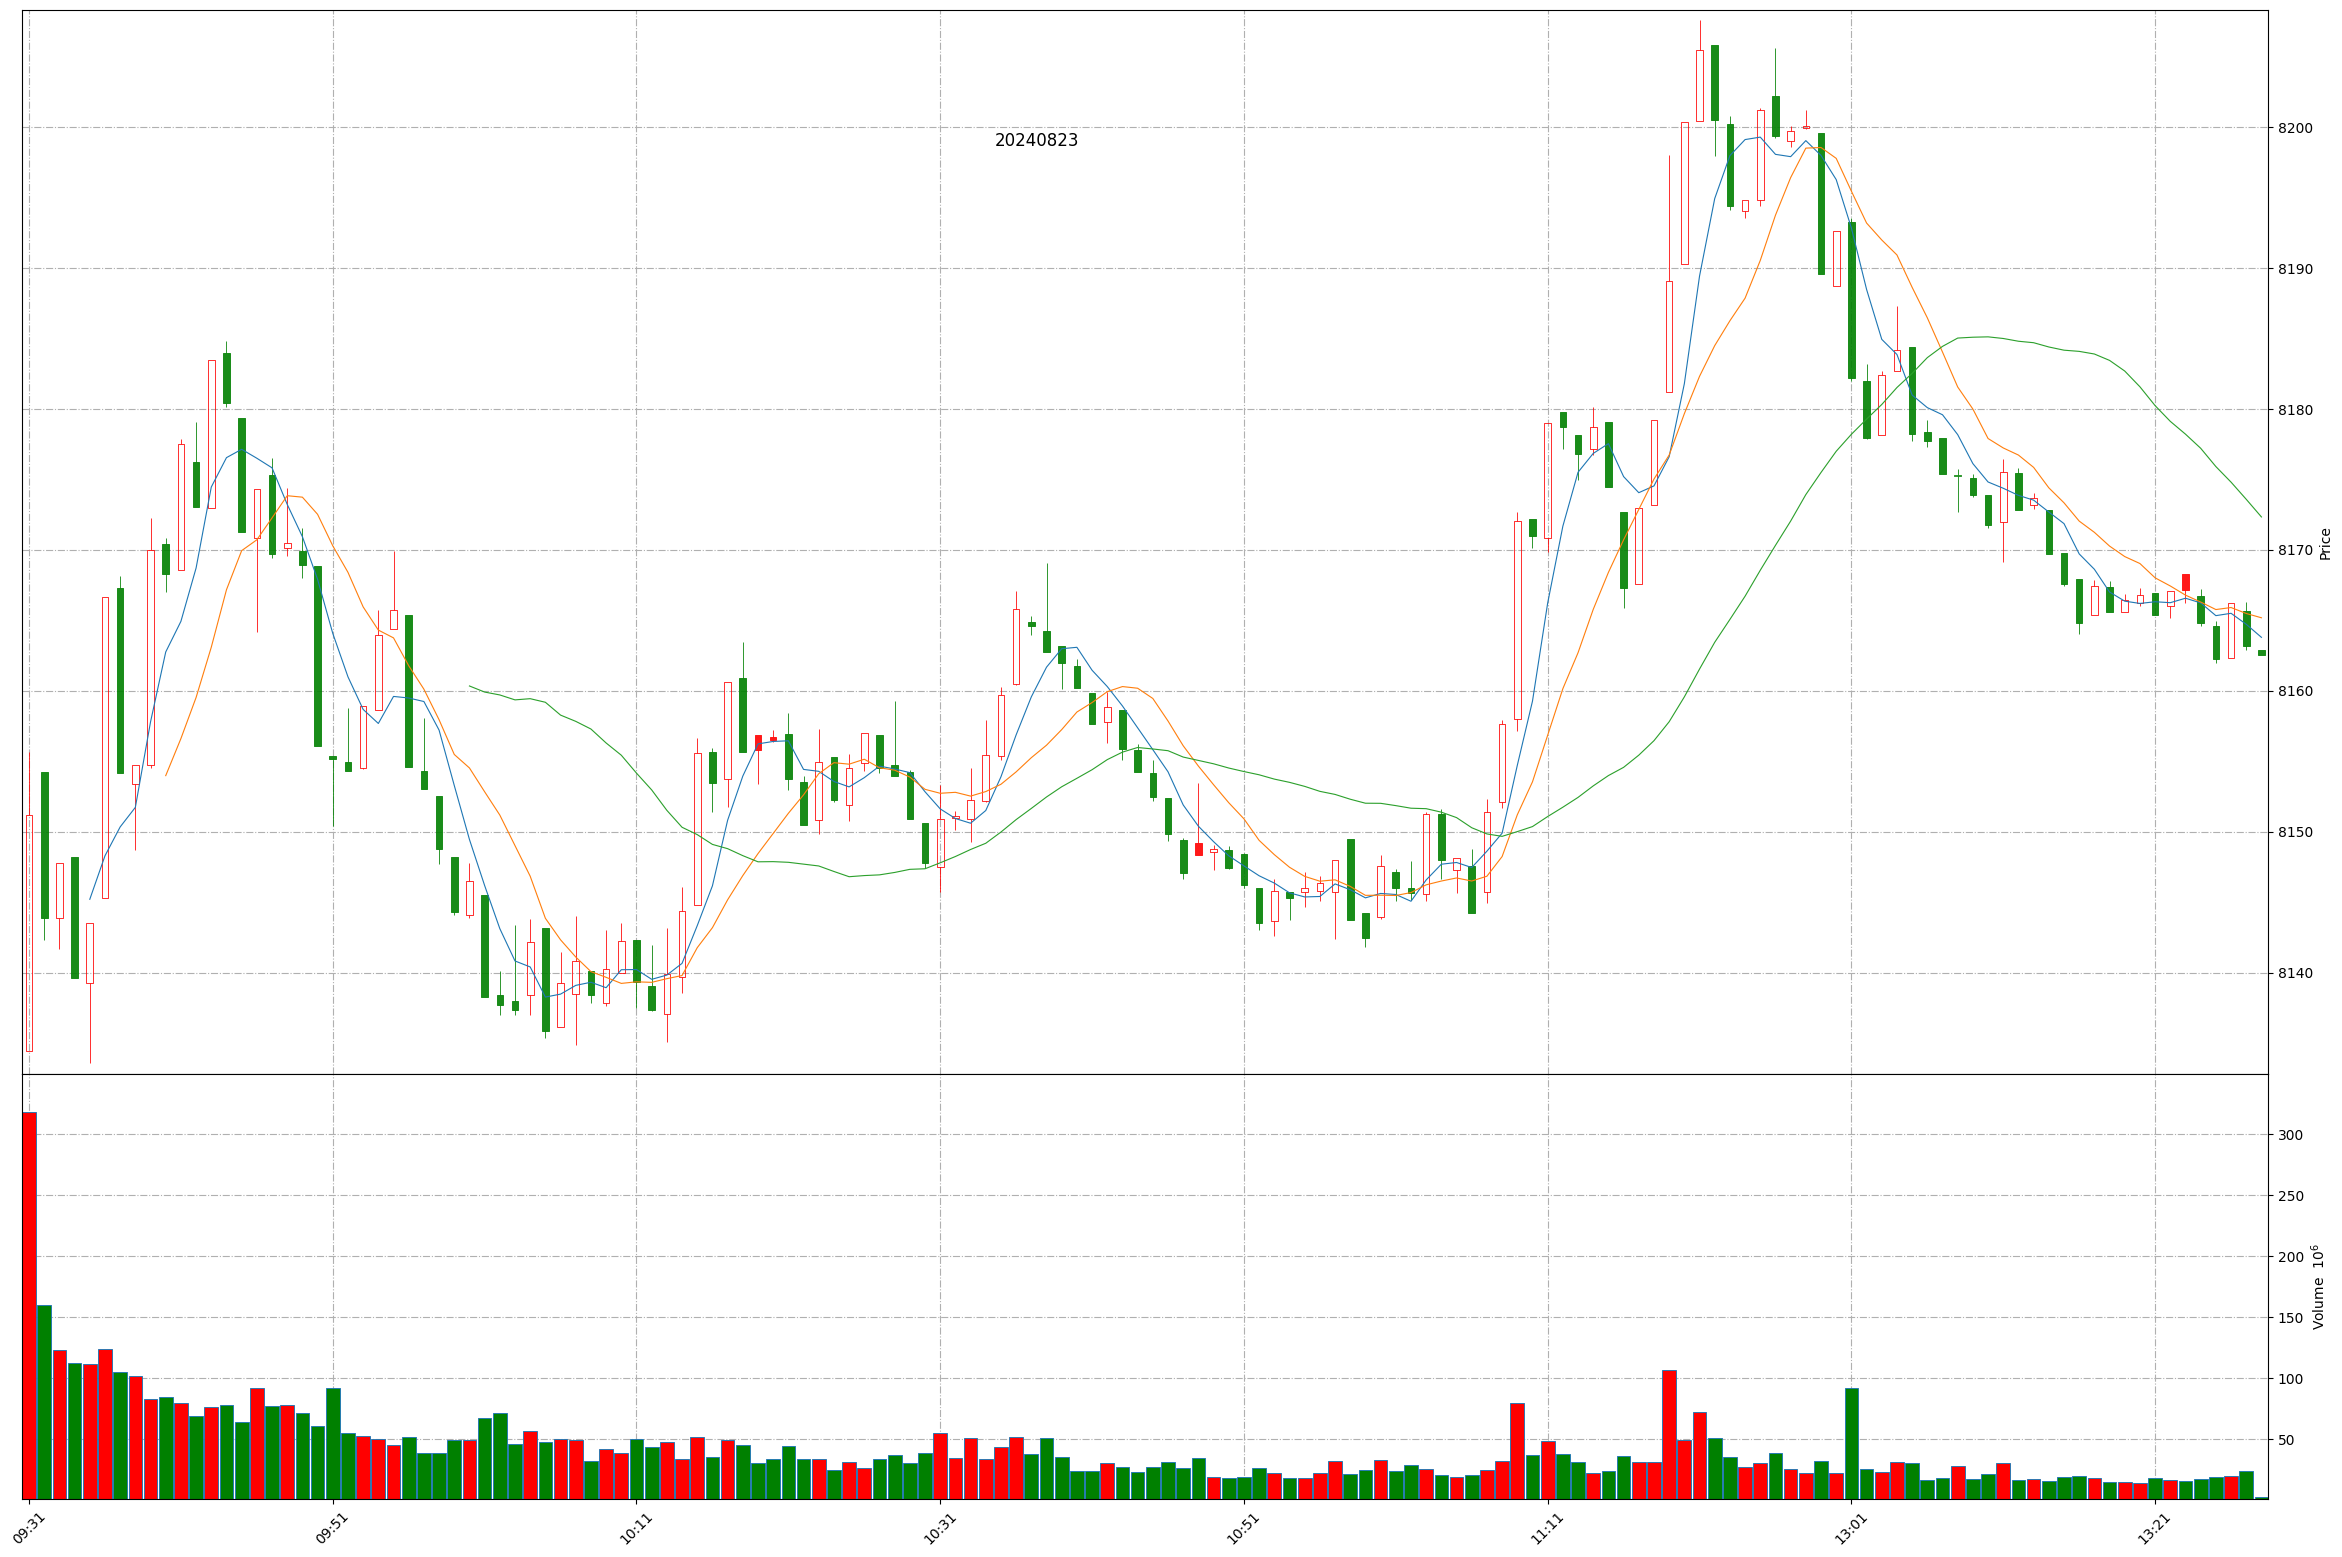
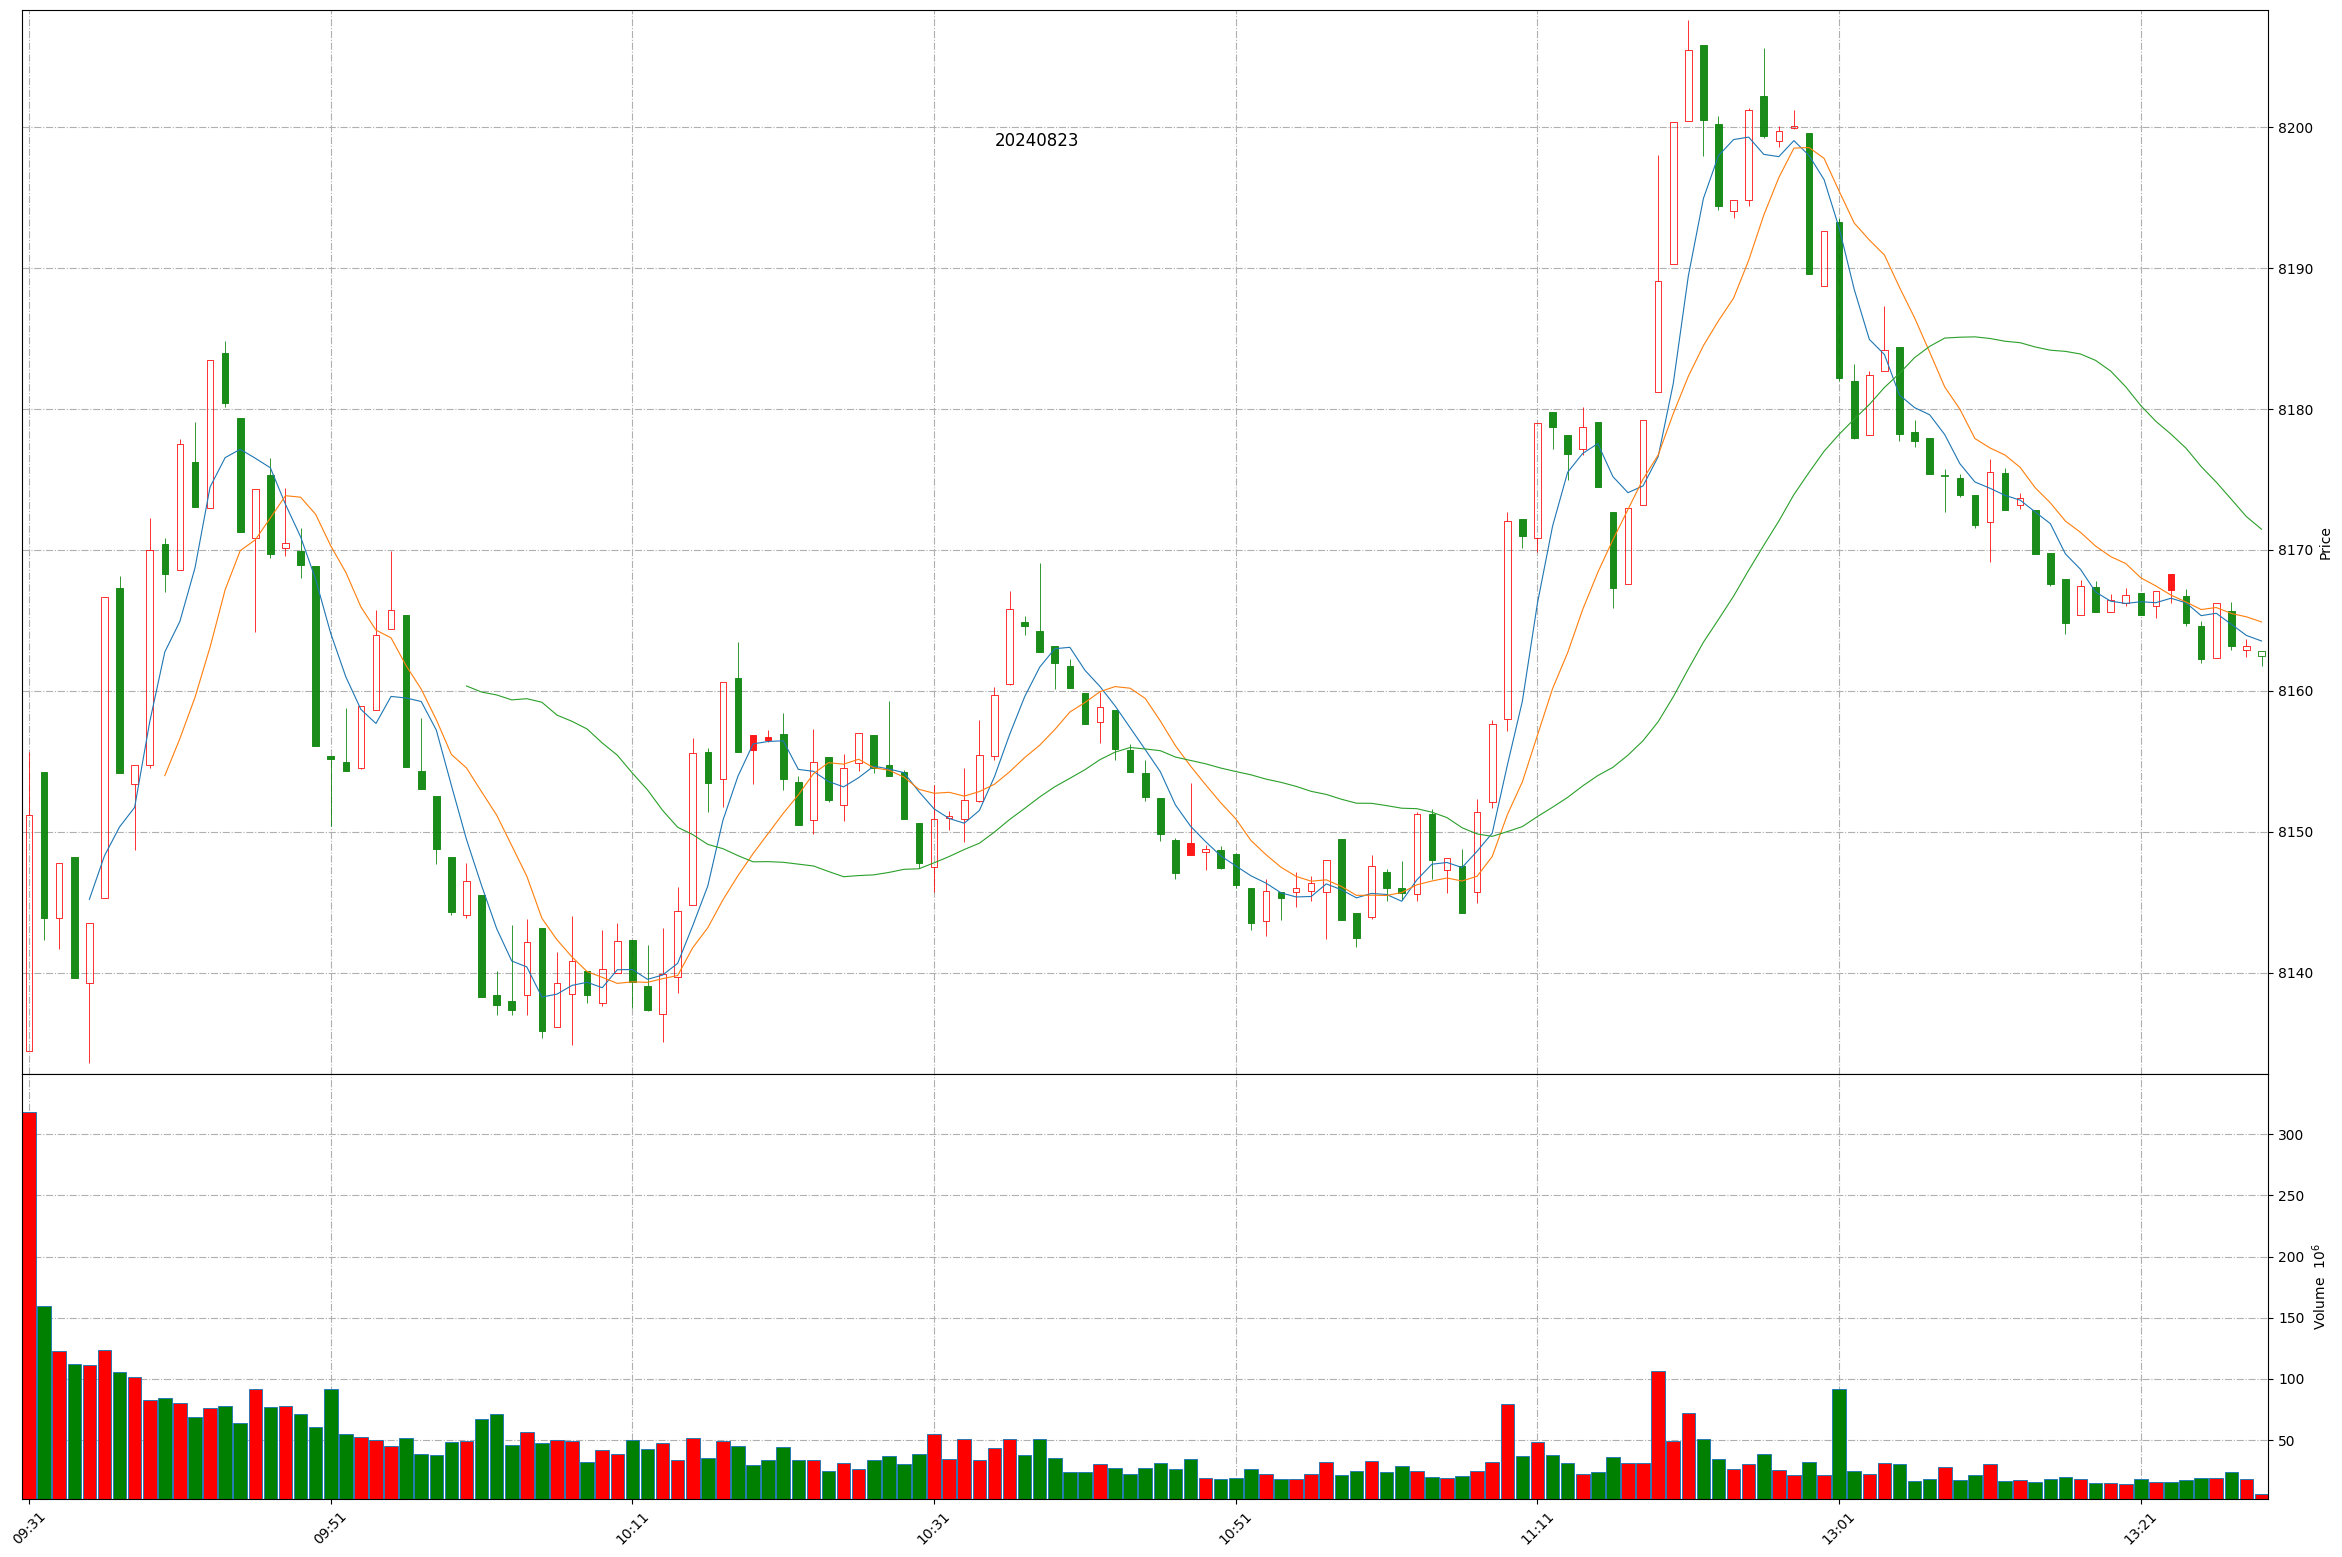
Github action update at 2024-08-23 13:28:41.

diff --git a/README.md b/README.md
@@ -1,11 +1,11 @@
 
 # Daily-A-share-market-quotes 每日 A 股指数（5min 更新）- 20240823
 
-### 上证指数 20240823 13:27
+### 上证指数 20240823 13:28
 ![](./fig/2024/8/20240823-sh000001.png)
 
-### 深证成指 20240823 13:27
+### 深证成指 20240823 13:28
 ![](./fig/2024/8/20240823-sz399001.png)
 
-### 北证50 20240823 13:27
+### 北证50 20240823 13:28
 ![](./fig/2024/8/20240823-bj899050.png)
